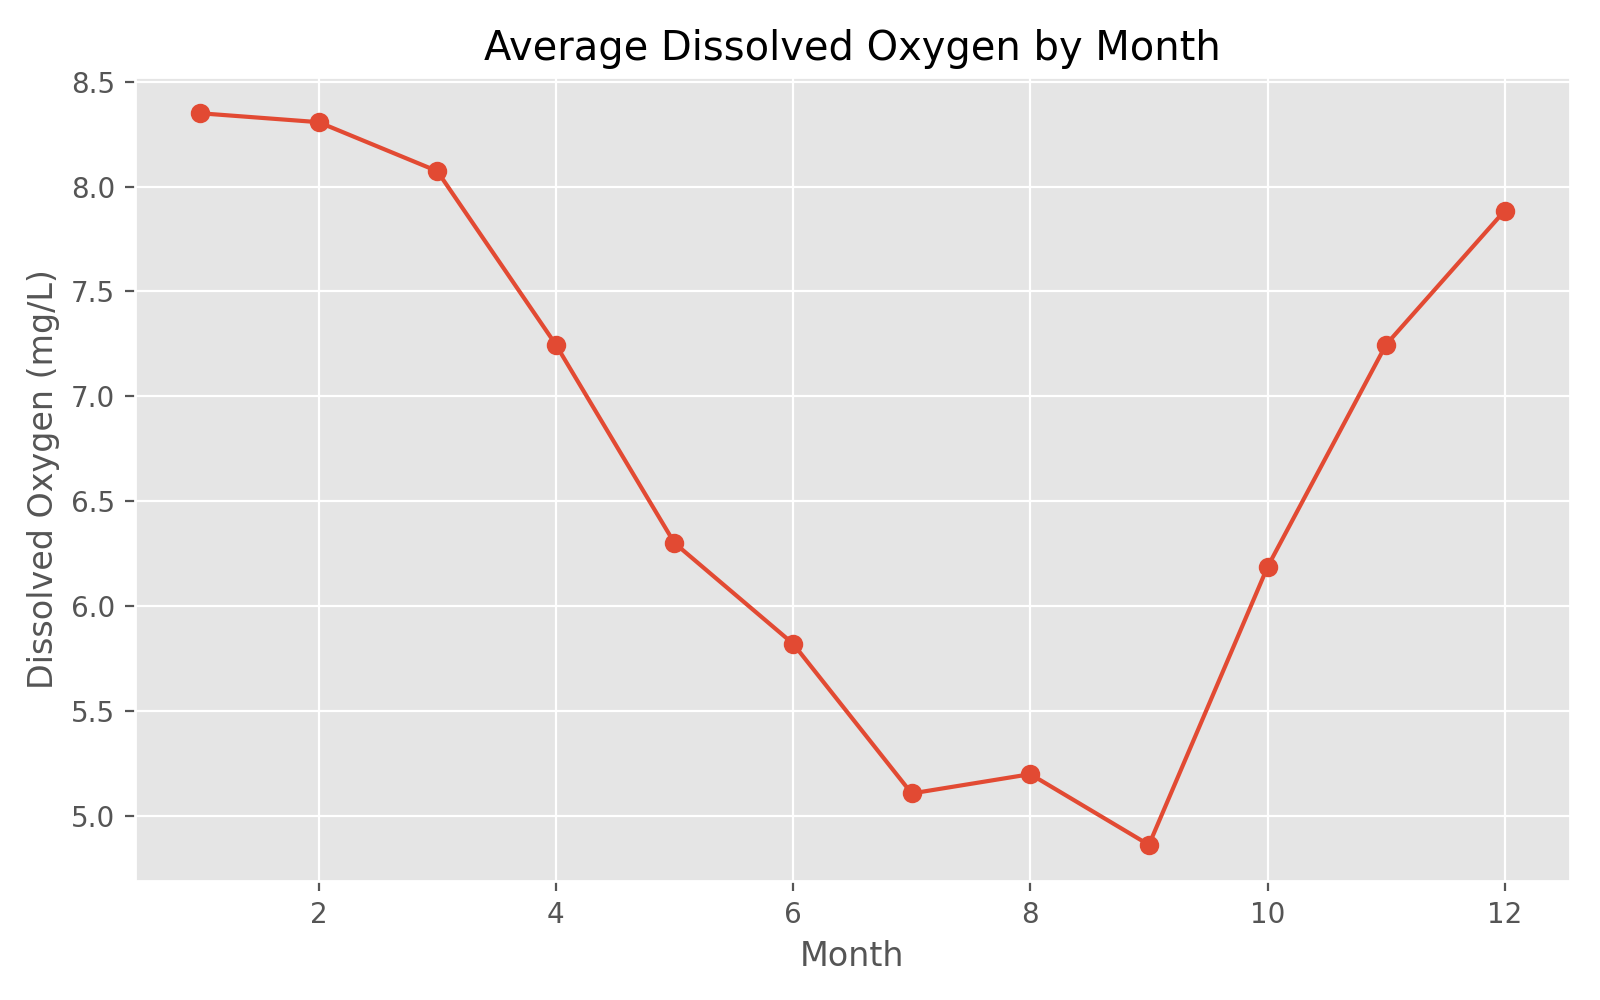
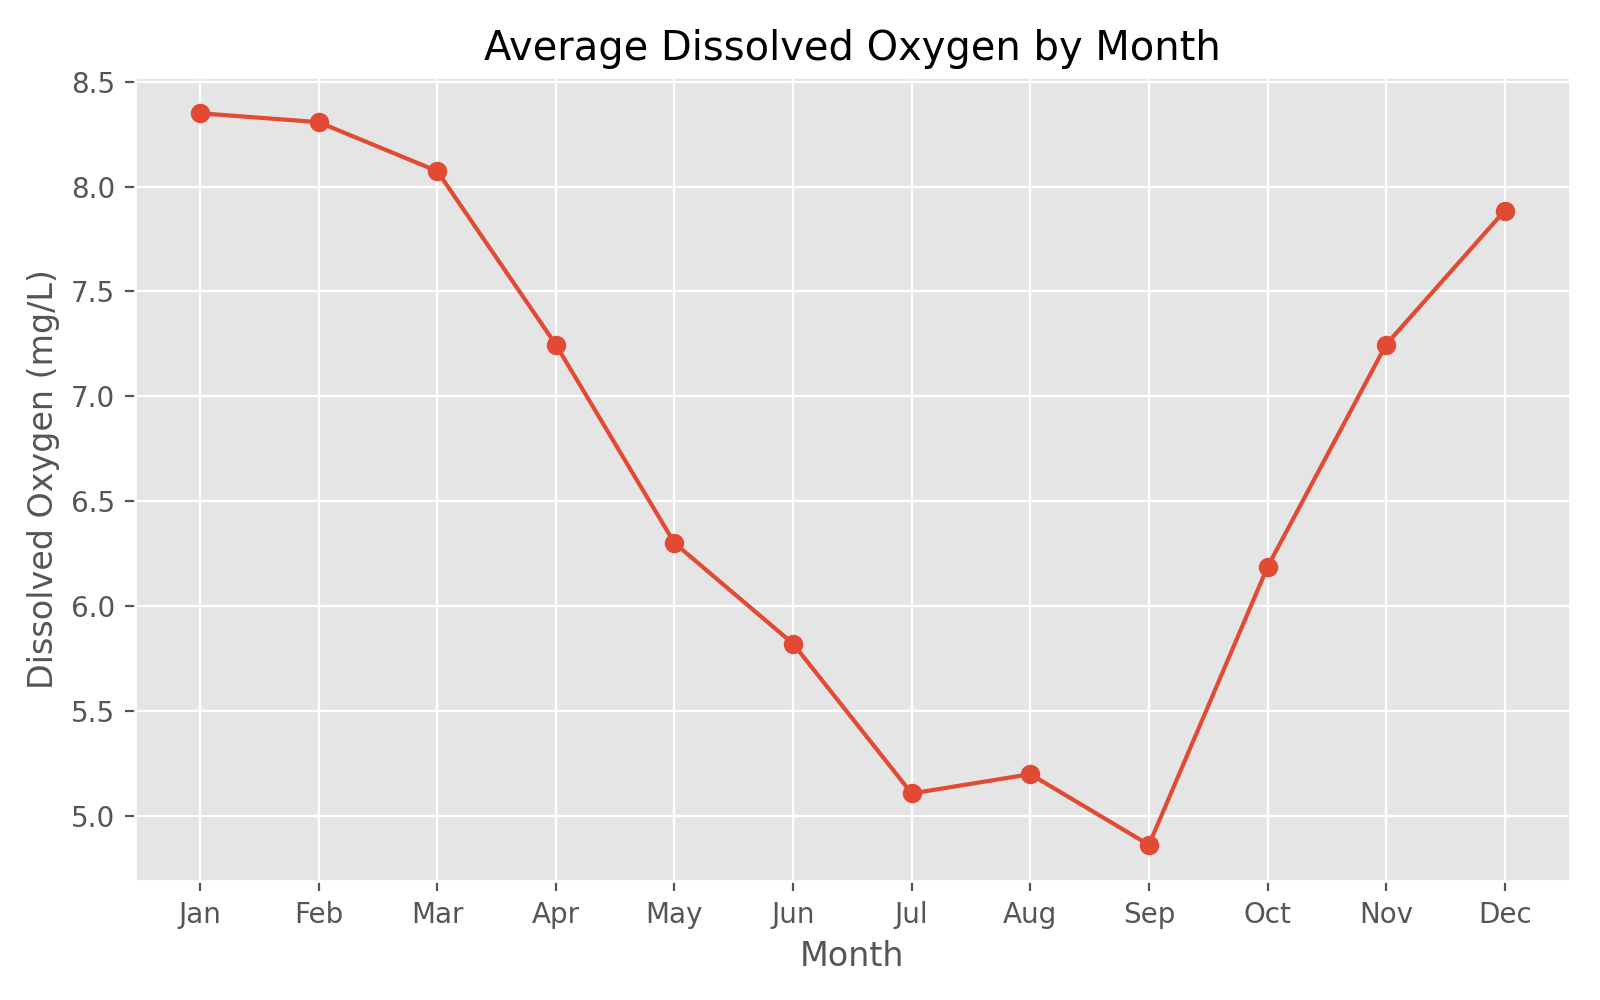
Changed x label from numbered months to labelled

diff --git a/src/analysis_water_quality.py b/src/analysis_water_quality.py
@@ -67,8 +67,10 @@ def calculate_monthly_averages(df: pd.DataFrame) -> pd.DataFrame:
 
 def plot_monthly_water_temperature(monthly_df: pd.DataFrame, out_path:Path) -> None:
     """Plot monthly average water temperature."""
+    month_labels = ["Jan", "Feb", "Mar", "Apr", "May", "Jun", "Jul", "Aug", "Sep", "Oct", "Nov", "Dec"]
     plt.figure(figsize=(8,5))
     plt.plot(monthly_df["month"], monthly_df["water_temp_c"], marker="o")
+    plt.xticks(ticks=monthly_df["month"], labels=month_labels)
     plt.title("Average Water Temperature by Month")
     plt.xlabel("Month")
     plt.ylabel("Water Temperature (°C)")
@@ -78,8 +80,10 @@ def plot_monthly_water_temperature(monthly_df: pd.DataFrame, out_path:Path) -> N
 
 def plot_monthly_dissolved_oxygen(monthly_df: pd.DataFrame, out_path: Path) -> None:
     """Plot monthly dissolved oxygen"""
+    month_labels = ["Jan", "Feb", "Mar", "Apr", "May", "Jun", "Jul", "Aug", "Sep", "Oct", "Nov", "Dec"]
     plt.figure(figsize=(8,5))
     plt.plot(monthly_df["month"], monthly_df["dissolved_oxygen_mg_l"], marker="o")
+    plt.xticks(ticks=monthly_df["month"], labels=month_labels)
     plt.title("Average Dissolved Oxygen by Month")
     plt.xlabel("Month")
     plt.ylabel("Dissolved Oxygen (mg/L)")
